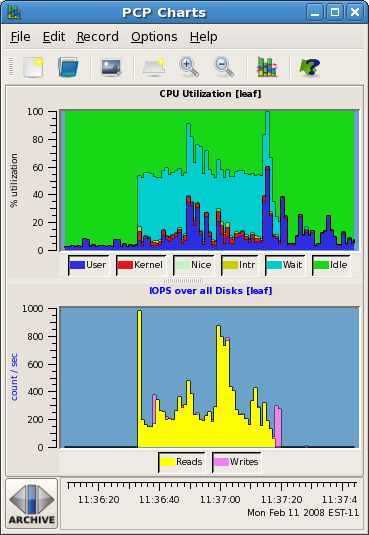
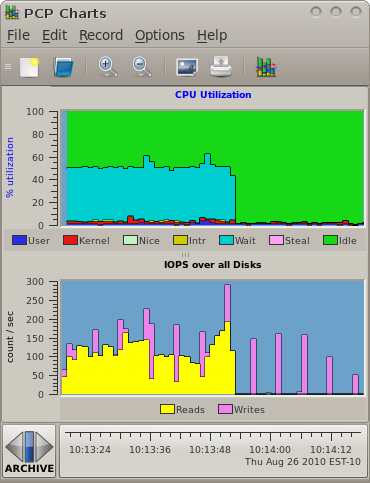
Update pmchart and pmtime images (most of em) to current look.

diff --git a/man/html/lab.pmchart.html b/man/html/lab.pmchart.html
@@ -52,11 +52,11 @@ pmafm
 <P>The time axis along the bottom of the window scrolls with the current time, updated every second, by default (this is also called the <I>sample interval</I>).</P>
 <P>To the left of the time axis is the time control status button.</P><P>The blue arrow signifies that (live) time is moving forward.&nbsp;&nbsp;Pressing the button once will show the Time Control tool, <i>pmtime</i>, pressing it a second time hides it.</P>
 	</TD>
-	<TD WIDTH=380><P VALIGN=MIDDLE ALIGN=RIGHT><CENTER><BR><IMG ALIGN=RIGHT SRC="images/pmchart_blank_canvas.png" BORDER=0></CENTER></P></TD>
+	<TD WIDTH=372><P VALIGN=MIDDLE ALIGN=RIGHT><CENTER><BR><IMG ALIGN=RIGHT SRC="images/pmchart_blank_canvas.png" BORDER=0></CENTER></P></TD>
 	</TR>
 </TABLE>
 <TABLE WIDTH=100% BORDER=0 CELLPADDING=0 CELLSPACING=0 STYLE="page-break-before: always">
-	<TR> <TD WIDTH=350><P VALIGN=MIDDLE ALIGN=LEFT><CENTER><BR><IMG ALIGN=RIGHT SRC="images/pmtime_live.png" BORDER=0></CENTER></P></TD>
+	<TR> <TD WIDTH=312><P VALIGN=MIDDLE ALIGN=LEFT><CENTER><BR><IMG ALIGN=RIGHT SRC="images/pmtime_live.png" BORDER=0></CENTER></P></TD>
 	<TD WIDTH=10></TD>
 	<TD><P><BR><P>The time controls allow you to modify various aspects of the flow of time in your charts, and clearly displays the current time position.</P>
 <P>A VCR paradigm is used to allow stopping and starting the flow of time, and in the case of historical data (PCP archives), allow movement both forwards and backwards through time, and allow fast, slow, or step-by-step updates to the displayed data.</P></TD>
@@ -102,7 +102,7 @@ $ find / -xdev >/dev/null 2>&1
 </TD></TR>
 </TABLE>
 <TABLE WIDTH=100% BORDER=0 CELLPADDING=0 CELLSPACING=0 STYLE="page-break-before: always">
-	<TR> <TD WIDTH=350><P VALIGN=MIDDLE ALIGN=RIGHT><CENTER><BR><IMG ALIGN=RIGHT SRC="images/pmchart_cpu_disk.png" BORDER=0></CENTER></P></TD>
+	<TR> <TD WIDTH=377><P VALIGN=MIDDLE ALIGN=RIGHT><CENTER><BR><IMG ALIGN=RIGHT SRC="images/pmchart_cpu_disk.png" BORDER=0></CENTER></P></TD>
 	<TD WIDTH=15></TD>
 	<TD><P><BR><P>This command scans every inode on the root filesystem, which is usually a local disk.&nbsp;&nbsp;We observe a large increase in disk read operations as each inode is read in from disk (yellow plot in the <I>Disk</I> chart).</P><P>At the same time we observe a small increase in processor utilisation, in both kernel and user mode (red and navy blue in the <I>CPU</I> chart), as the command executes the code to read directories and query the <B>stat</B>(2) information for each file.&nbsp;&nbsp;Since we account for all CPU time, these increases in system and user time cause a corresponding decrease in the idle time (green area in the <I>CPU</I> chart).</P><P>There is also now an increase in the amount of time spent executing interrupt handlers (yellow plot in the <I>CPU</I> chart) since the device must generate an interrupt completion event for every I/O.</P><P>On systems that support a separate I/O wait CPU utilisation metric (Linux 2.6+ and IRIX), we also see a significant amount of time is spent with outstanding I/O requests (cyan plot in the <I>CPU</I> chart).</P></TD>
 	</TR>
@@ -144,7 +144,7 @@ In a command shell, take a look through the saved View configuration.
 <TABLE WIDTH=100% BORDER=0 CELLPADDING=10 CELLSPACING=20>
 	<TR><TD BGCOLOR="#e2e2e2" WIDTH=70%><BR><IMG SRC="images/stepfwd_on.png" WIDTH=16 HEIGHT=16 BORDER=0>&nbsp;&nbsp;&nbsp;From the <I>Edit</I> menu select the <I>Chart</I> item.<BR></TD></TR>
 </TABLE>
-<P>A tabbed window with every setting for the Disk chart is displayed.&nbsp;&nbsp;In the tree view on the left side of the window are the metrics from our selected Disk chart.
+<P>A tabbed window with all settings for the Disk chart is displayed.&nbsp;&nbsp;In the tree view on the left side of the window are the metrics from our selected Disk chart.
 <BR><CENTER><IMG SRC="images/pmchart_edit_chart.png" BORDER=0></CENTER></P>
 <P>The three tabs on the right side of the window show the current settings for this chart in three categories:<UL><LI>Properties relating to the entire chart (Title, Legend settings, Y-Axis scaling, etc);
 	<LI>Available metrics (performance data) for plotting in the chart
@@ -183,7 +183,7 @@ In a command shell, take a look through the saved View configuration.
 <TABLE WIDTH=100% BORDER=0 CELLPADDING=10 CELLSPACING=20>
 	<TR><TD BGCOLOR="#e2e2e2" WIDTH=70%><BR><IMG SRC="images/stepfwd_on.png" WIDTH=16 HEIGHT=16 BORDER=0>&nbsp;&nbsp;&nbsp;End your pmchart process now, open a command shell and run:<BR>
 <PRE><B>
-$ pmafm ~/.pcp/pmlogger/20080201.folio replay</B><BR></TD></TR>
+$ pmafm ~/.pcp/pmlogger/20100826.10.11.28.folio replay</B><BR></TD></TR>
 </B></PRE>
 </TABLE>
 <P>(substituting the current recording timestamp into the folio file name from your earlier recording session)</P>
